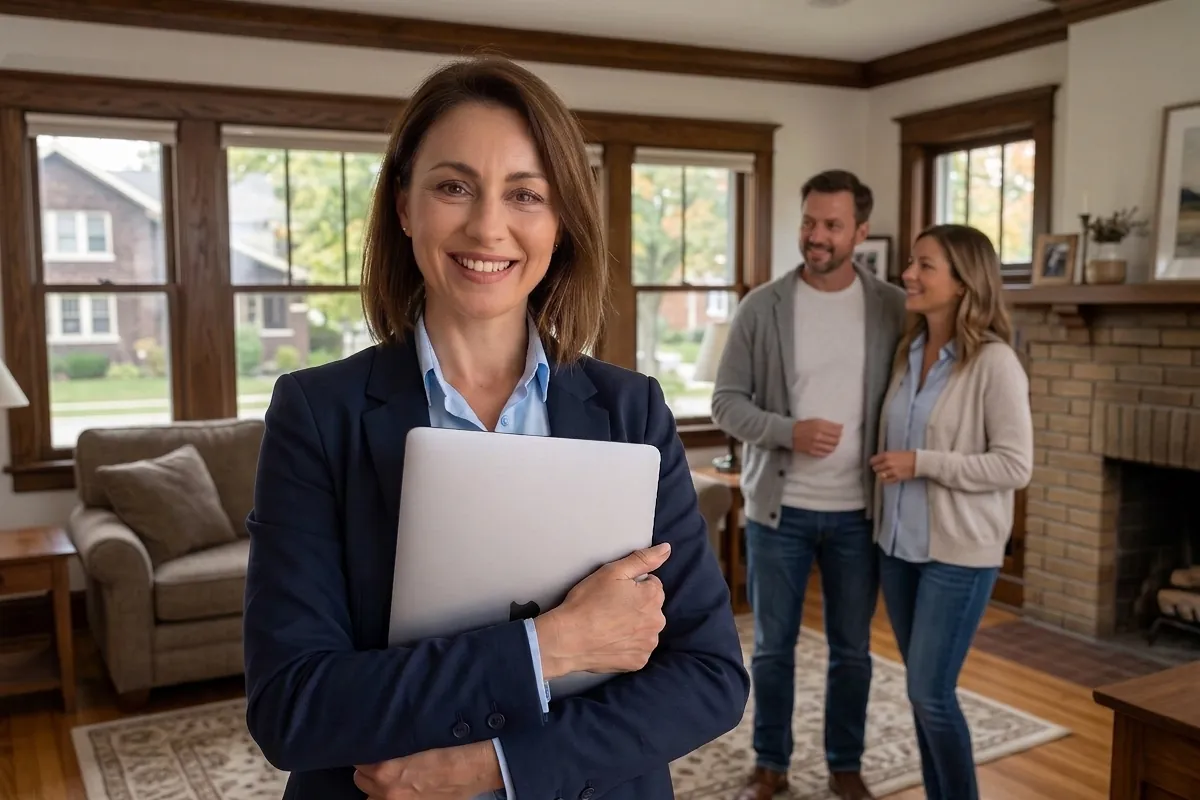
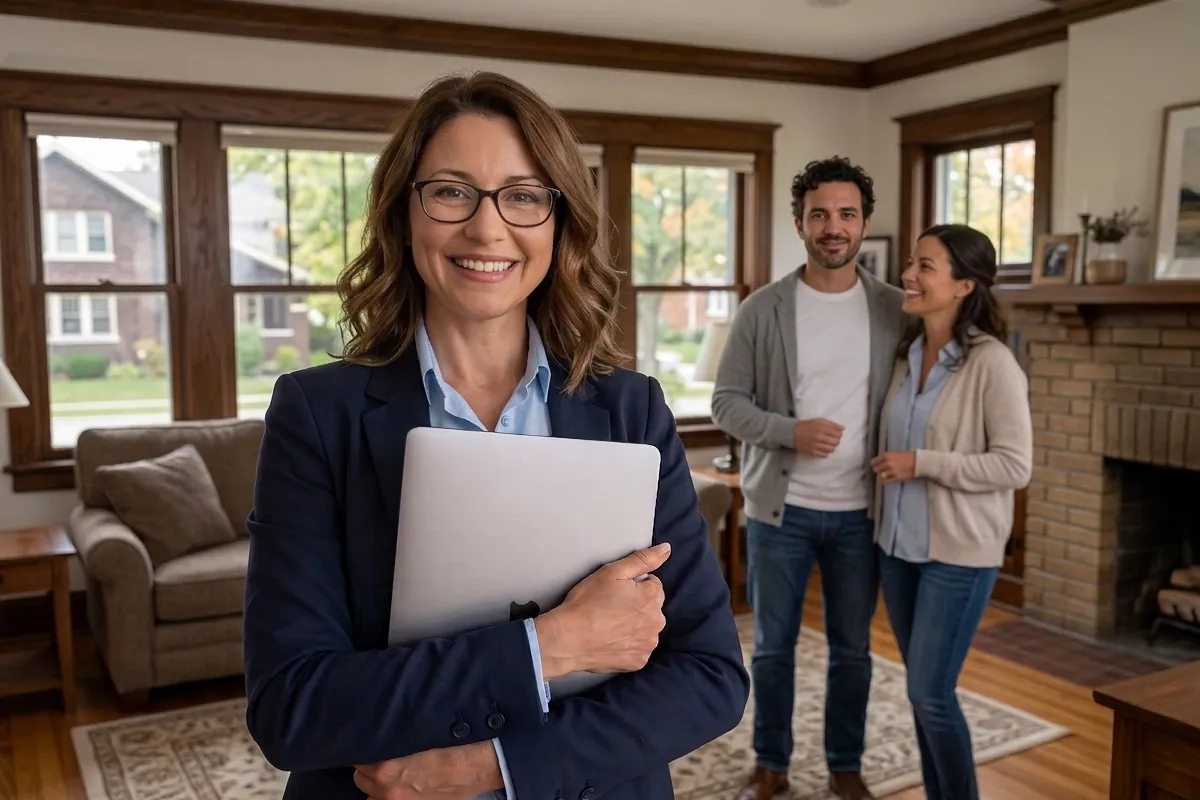
RE Illinois state page: replace hero photo again (boss: face overlapped another state's photo)

diff --git a/re/ko/illinois/index.html b/re/ko/illinois/index.html
@@ -148,7 +148,7 @@
       <a class="hero-note-link" href="/install-guide.html?exam=re">설치 방법 →</a>
     </div>
   </div>
-  <div class="hero-demo" id="hero-rot"><img class="hero-photo rot-active" src="/re/img/hero-re-il.webp?v=fd00678a09" width="1200" height="800" alt="노트북을 안고 미소 짓는 부동산 에이전트와 거실에서 집을 둘러보는 부부" fetchpriority="high"></div>
+  <div class="hero-demo" id="hero-rot"><img class="hero-photo rot-active" src="/re/img/hero-re-il.webp?v=3253c64651" width="1200" height="800" alt="안경을 쓰고 노트북을 안은 채 미소 짓는 부동산 에이전트와 거실에서 집을 둘러보는 부부" fetchpriority="high"></div>
 </div></section>
 
 <section class="stats"><div class="wrap stats-grid"><div><div class="stat-num">700+</div><div class="stat-label">일리노이 주 문제</div></div><div><div class="stat-num">4,400+</div><div class="stat-label">전국 공통 문제</div></div><div><div class="stat-num">34개</div><div class="stat-label">일리노이 War Room 주제</div></div><div><div class="stat-num">Mock Exams</div><div class="stat-label">일리노이 시험 형식 모의고사</div></div><div><div class="stat-num">30일</div><div class="stat-label">무료 체험</div></div></div></section>

diff --git a/re/illinois/index.html b/re/illinois/index.html
@@ -148,7 +148,7 @@
       <a class="hero-note-link" href="/install-guide.html?exam=re">How to install →</a>
     </div>
   </div>
-  <div class="hero-demo" id="hero-rot"><img class="hero-photo rot-active" src="/re/img/hero-re-il.webp?v=fd00678a09" width="1200" height="800" alt="Smiling real estate agent holding a laptop while a couple looks around the living room" fetchpriority="high"></div>
+  <div class="hero-demo" id="hero-rot"><img class="hero-photo rot-active" src="/re/img/hero-re-il.webp?v=3253c64651" width="1200" height="800" alt="Smiling real estate agent in glasses holding a laptop while a couple looks around the living room" fetchpriority="high"></div>
 </div></section>
 
 <section class="stats"><div class="wrap stats-grid"><div><div class="stat-num">700+</div><div class="stat-label">Illinois Questions</div></div><div><div class="stat-num">4,400+</div><div class="stat-label">National Questions</div></div><div><div class="stat-num">34</div><div class="stat-label">Illinois War Room Topics</div></div><div><div class="stat-num">Mock Exams</div><div class="stat-label">In Illinois Exam Format</div></div><div><div class="stat-num">30 Days</div><div class="stat-label">Free Trial</div></div></div></section>
